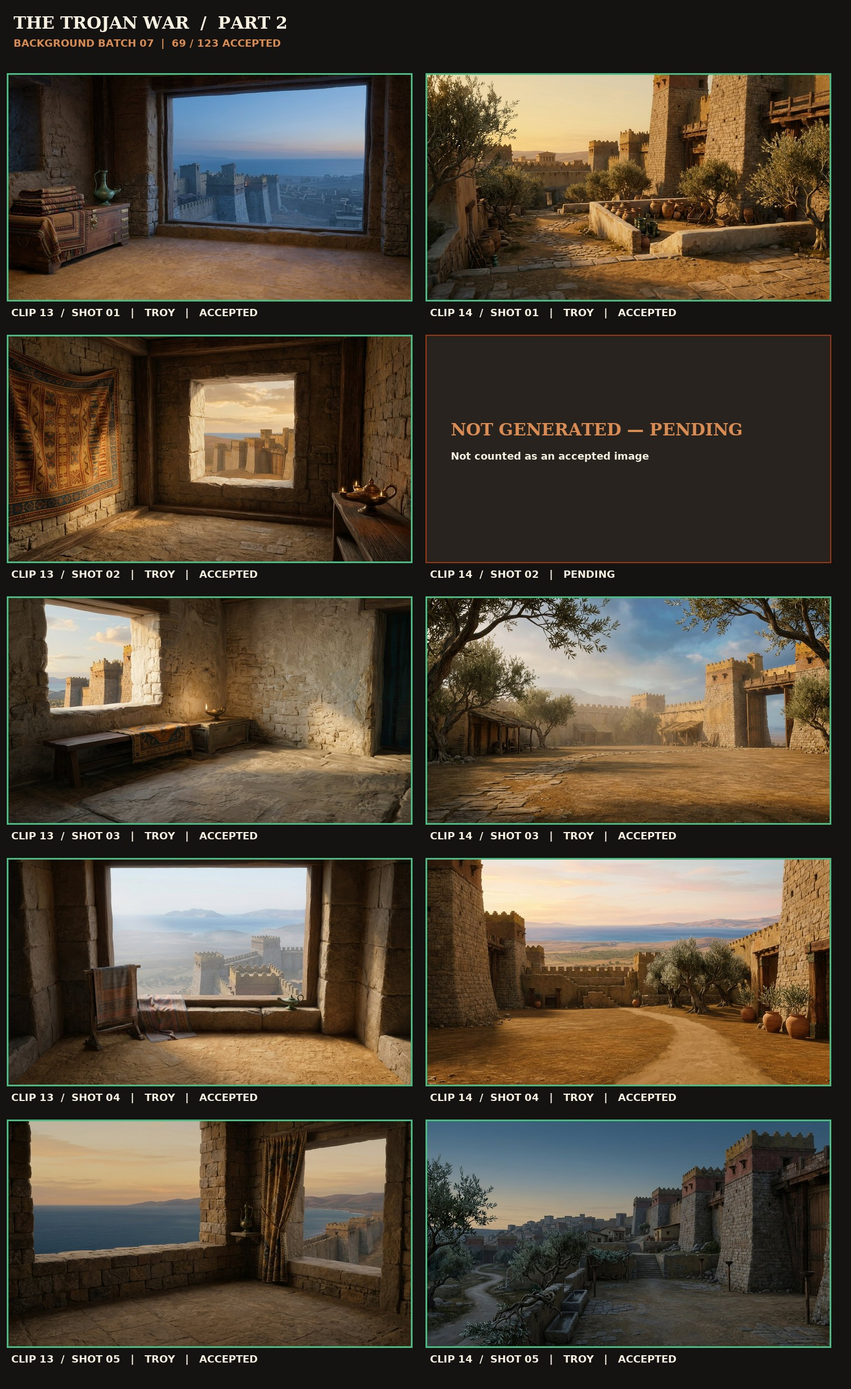
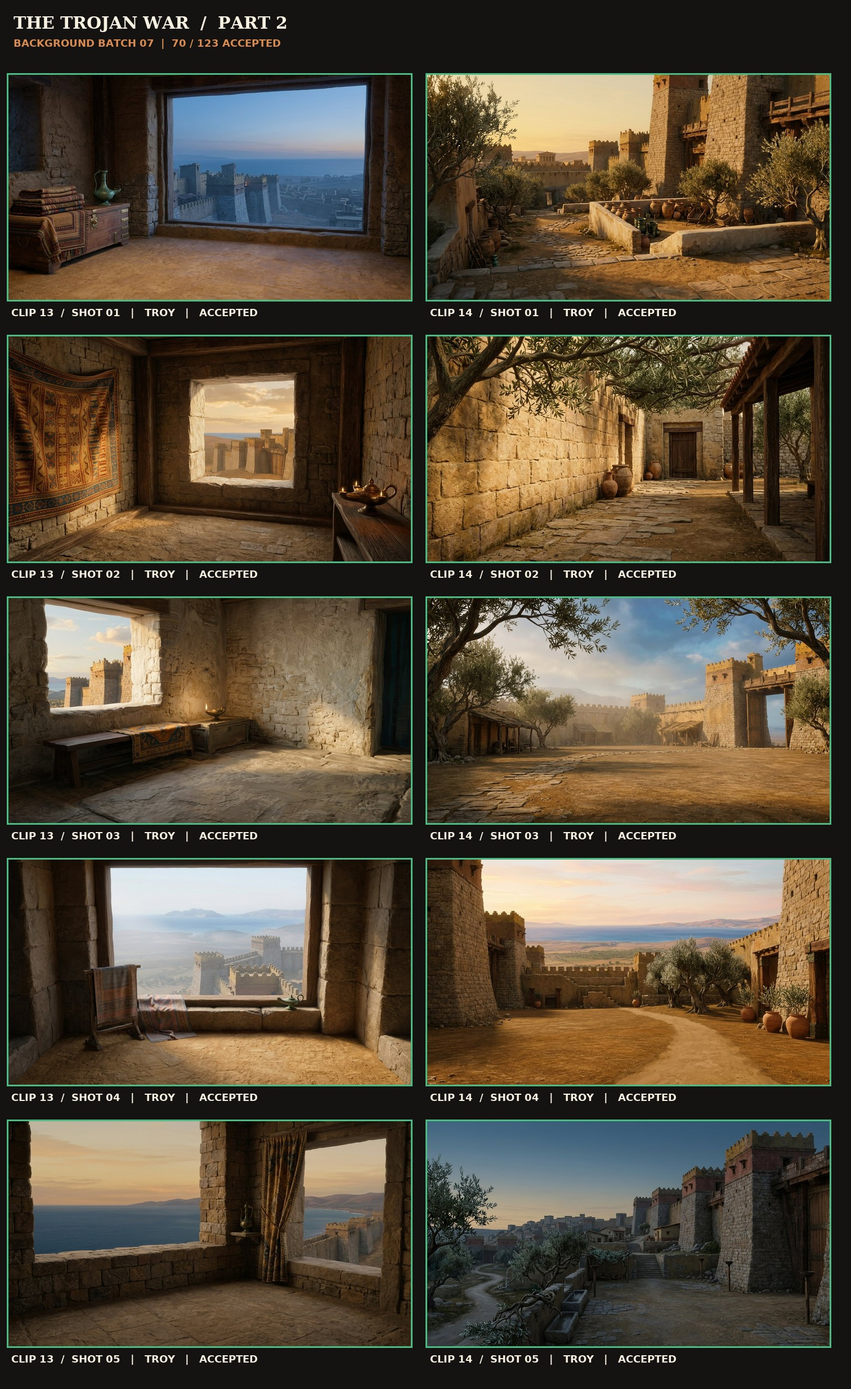
Complete Part 2 background batch 07 reroll

Changed region(s): [[0.4974, 0.2183, 0.9947, 0.4366]]

diff --git a/production/STATUS.md b/production/STATUS.md
@@ -4,7 +4,7 @@
 **Recovered checkpoint:** `origin/arena/01a1032c-yt-2` at `774100f` (2026-10-04); accepted assets and recorded approvals are reused, not regenerated.
 **Locked script source:** `production/script_approved.txt` remains byte-identical to the supplied script; the separate retention draft is not the VO source. By explicit user approval, three non-graphic wording substitutions are permitted for Part 2 Chapter 7 narrator audio only; they are documented in `production/part2/chapter7_vo_override.json` and do not alter the locked source file.
 **Part 1 status:** Complete — 125/125 accepted plates, all 25 clips assembled, rendered, and QC-passed. The full export and QC reports are saved under `production/part1/`; the approved preview is unchanged.
-**Part 2 status:** VO and motion plan complete (24 measured clips / 123 unique plate slots). The five new character sheets were approved by the user with “continue” on 2026-10-05; all five static cutouts and face anchors pass visual QC. Background batches 01–06 are complete; batch 07 has one courtyard-detail reroll pending: 69/123 plates accepted, 54 pending.
+**Part 2 status:** VO and motion plan complete (24 measured clips / 123 unique plate slots). The five new character sheets were approved by the user with “continue” on 2026-10-05; all five static cutouts and face anchors pass visual QC. Background batches 01–07 are complete: 70/123 plates accepted, 53 pending (batch 07 included one corrective reroll).
 ## Current session — 2026-10-05
 - Added a separate complete-Part-1 renderer at `tools/render_part1.py` (all 25 clips, animated 2.5-second opening title and Part II tease). It writes `production/part1/part1_full.mp4` and does not overwrite the approved clip 01 + 05 preview.
 - Added exact per-clip VO sample trimming/padding against the locked timeline, frame-rounding audio tail compensation, a bounded background cache, and a music fade on the teaser card. Approved script text and VO segment records remain untouched.
@@ -14,7 +14,7 @@
 - Locked script, VO segments, accepted assets and approved preview were preserved. Part 1 is delivered; Step 7–8 remains open for Parts 2–4 and the master MP4.
 - Part 2 narrator batch: after exact-text synthesis was blocked, the user approved three non-graphic Chapter 7 narrator-only substitutions; the locked source script remains unchanged. The missing raw narration was generated with selected voice `voice-00`: 222 words, 88.23s decoded, 151 WPM. Raw-audio QC/hash metadata: `production/part2/p2_narr_c7_manifest.json`; override: `production/part2/chapter7_vo_override.json`.
 - Part 2 per-clip VO is complete: 24 clips, 776 words, 364.60s (6.08 min), 127.7 WPM average. All 8 raw batches map to the source lines, the approved VO override is applied, pace gates pass, and audio QC manifests are in `production/part2/part2_vo_manifest.json` and `part2_vo_qc_report.txt`/`.json`.
-- Part 2 motion plan is complete and appended to `production/scenes.json` without changing the approved Part 1 plan. `production/part2/background_manifest.json` records 123 unique plates: 69 accepted and 54 pending. Twenty-three clips use five shots; `p2_clip_16` (23.678s / 50 words) uses eight (~2.96s per shot) for Preset A density. New dialogue/supporting character assignments, timed events, labels/callouts, camera moves, and text-free HYBRID prompts are included. See `production/part2/part2_scene_plan_notes.md`.
+- Part 2 motion plan is complete and appended to `production/scenes.json` without changing the approved Part 1 plan. `production/part2/background_manifest.json` records 123 unique plates: 70 accepted and 53 pending. Twenty-three clips use five shots; `p2_clip_16` (23.678s / 50 words) uses eight (~2.96s per shot) for Preset A density. New dialogue/supporting character assignments, timed events, labels/callouts, camera moves, and text-free HYBRID prompts are included. See `production/part2/part2_scene_plan_notes.md`.
 - Step 3 character-sheet gate cleared: the user approved all five new static designs (“continue”, 2026-10-05): Protesilaus, Philoctetes, Chryses, Patroclus, and Andromache holding Astyanax. Transparent cutouts are saved as `production/assets/rigs/cutout_{protesilaus,philoctetes,chryses,patroclus,andromache_astyanax}.png`; face anchors were appended to `char_anchors.json`, and speaker mappings were added to `tools/assemble.py`. Matte/anchor review: `production/part2/character_sheets/part2_cutout_calibration.jpg`; processor and hashes are recorded in the character-sheet manifest.
 - Background batch 01: 10/10 plates for clips 01–02 individually viewed and accepted (0 rerolls); see `production/part2/backgrounds_batch_01_contact.jpg` and `backgrounds_batch_01_QC.md`.
 - Background batch 02: 10/10 plates for clips 03–04 individually viewed and accepted (0 rerolls); see `production/part2/backgrounds_batch_02_contact.jpg` and `backgrounds_batch_02_QC.md`.
@@ -22,7 +22,7 @@
 - Background batch 04: clips 07–08 complete; 10/10 plates individually viewed and accepted, with no rerolls. At that checkpoint: 40/123 accepted, 83 pending. Contact sheet and QC: `production/part2/backgrounds_batch_04_contact.jpg` and `backgrounds_batch_04_QC.md`.
 - Background batch 05: clips 09–10 complete; all 10 plates individually reviewed and accepted after one corrective reroll. The first Olympus detail candidate (`p2_clip_10` shot 03) was rejected for a modern-looking grate and text-like ornament; its corrected, grate-free prompt produced the accepted replacement. At that checkpoint: 50/123 accepted, 73 pending. Contact sheet and QC: `production/part2/backgrounds_batch_05_contact.jpg` and `backgrounds_batch_05_QC.md`.
 - Background batch 06: clips 11–12 complete; all 10 plates individually reviewed and accepted with no rerolls. Trojan duel field and rampart environments match the approved Troy reference and preserve open character staging. At that checkpoint: 60/123 accepted, 63 pending. Contact sheet and QC: `production/part2/backgrounds_batch_06_contact.jpg` and `backgrounds_batch_06_QC.md`.
-- Background batch 07: clips 13–14 reviewed; 9/10 candidates passed. `p2_clip_14` shot 02 was rejected because a wall-mounted bronze-colored spout above a basin read as a modern faucet/pipe. The candidate was removed; the slot remains pending, with a stone-and-olive prompt excluding plumbing saved in the manifest and scenes plan. Current total: 69/123 accepted, 54 pending. Contact sheet and QC: `production/part2/backgrounds_batch_07_contact.jpg` and `backgrounds_batch_07_QC.md`. Next: reroll clip 14 shot 02, then batch 08, clips 15–16.
+- Background batch 07: clips 13–14 complete; all 10 plates individually reviewed and accepted after one corrective reroll. The first `p2_clip_14` shot 02 candidate was rejected for a faucet-like wall spout; a stone-and-olive replacement passed QC. Current total: 70/123 accepted, 53 pending. Contact sheet and QC: `production/part2/backgrounds_batch_07_contact.jpg` and `backgrounds_batch_07_QC.md`. Next: batch 08, clips 15–16.
 
 **Format:** 16:9 (1920×1080) · **Target Pace:** ~130 wpm · **Parts:** 4 parts (~23.40 min total, 92 clips)
 **Style Mode:** `HYBRID` (2D cartoon rigged characters + AI-generated painterly-realistic Bronze Age environments, no people/text in backgrounds)

diff --git a/production/part2/backgrounds_batch_07_QC.md b/production/part2/backgrounds_batch_07_QC.md
@@ -1,20 +1,20 @@
 # Part 2 Background Batch 07 — QC
 
-**Scope:** clips 13–14 · quiet upper chamber in Troy and the sheltered Trojan courtyard · 9/10 plates individually reviewed and accepted; one courtyard-detail candidate was rejected and remains pending a reroll.
-**Checks:** approved `loc_troy` reference and HYBRID look; varied shot compositions; accepted plates screened for people, faces, silhouettes, readable text, logos, watermarks and modern objects; clear character staging; full image decode and accepted 16:9 tolerance; accepted-image dimensions and SHA-256 recorded in `background_manifest.json`.
-**Result:** PARTIAL PASS — 9 accepted, 1 rejected candidate withheld; no corrective reroll this batch. Part 2 total: 69/123 accepted, 54 pending. The rejected `p2_clip_14` shot 02 candidate contained a bronze-colored wall spout above a basin that read as a modern faucet/pipe. It was removed and is not accepted. A corrected stone-and-olive prompt excluding plumbing is recorded in the manifest and scene plan for the next generation pass. No script, VO or measured scene timing was changed.
+**Scope:** clips 13–14 · quiet upper chamber in Troy and the sheltered Trojan courtyard · all 10 planned plates individually reviewed and accepted, with one corrective reroll for the courtyard detail.
+**Checks:** approved `loc_troy` reference and HYBRID look; varied shot compositions; no people, faces, silhouettes, bodies, readable text, logos, watermarks or modern objects in accepted plates; clear character staging; full image decode and accepted 16:9 tolerance; dimensions and SHA-256 recorded in `background_manifest.json`.
+**Result:** PASS — 10/10 accepted after one corrective reroll. The first `p2_clip_14` shot 02 candidate was rejected because its wall-mounted bronze-colored spout read as a modern faucet/pipe, then excluded. A revised stone-and-olive prompt excluding plumbing produced a period-consistent replacement. Part 2 total: 70/123 accepted, 53 pending. No script, VO or measured scene timing was changed.
 
 | Clip / shot | Setting / view | Dimensions | QC result |
 |---|---|---:|---|
-| `p2_clip_13` / 01 | Upper Troy chamber / wide window view | 1376×768 | PASS — quiet chamber overlooks the walls and sea; folded woven cloth and bronze vessel at edge; clear floor, no figures or text. |
+| `p2_clip_13` / 01 | Upper Troy chamber / wide window view | 1376×768 | PASS — quiet chamber overlooks the walls and sea; folded woven textiles and bronze vessel at edge; clear floor, no figures or text. |
 | `p2_clip_13` / 02 | Upper Troy chamber / raised medium | 1376×768 | PASS — geometric woven hanging and empty window to the gate, with an unmarked bronze lamp; no people or readable lettering. |
 | `p2_clip_13` / 03 | Upper Troy chamber / low side-angle detail | 1376×768 | PASS — simple bench, woven cloth and bronze lamp by the window; clear floor, no figures or text. |
 | `p2_clip_13` / 04 | Upper Troy chamber / reverse wide | 1376×768 | PASS — chamber window frames the city and pale Aegean; plain textile stand and open floor, no people or text. |
 | `p2_clip_13` / 05 | Upper Troy chamber / establishing interior | 1376×768 | PASS — broad room with two open windows, woven curtain and bronze lamp; empty floor and coastal vista, no figures or text. |
 | `p2_clip_14` / 01 | Sheltered courtyard / raised medium | 1376×768 | PASS — olive trees, warm stone walls and plain pottery; readable path and open staging area, no people or text. |
-| `p2_clip_14` / 02 | Sheltered courtyard / low side-angle detail | — | REJECTED — wall-mounted bronze-colored spout above a basin read as a modern faucet/pipe. Candidate removed; slot remains pending for reroll with the revised no-plumbing prompt. |
+| `p2_clip_14` / 02 | Sheltered courtyard / low side-angle detail | 1376×768 | PASS after reroll — quiet flagstone path beneath olive branches, plain amphorae and timber shelter; no plumbing, modern fixtures, people or text. |
 | `p2_clip_14` / 03 | Sheltered courtyard / reverse wide | 1376×768 | PASS — empty courtyard to the Trojan gate, framed by olive branches and simple shelters; no people or text. |
 | `p2_clip_14` / 04 | Sheltered courtyard / panoramic view | 1376×768 | PASS — warm-stone yard and quiet path beneath olive trees, gate and distant landscape beyond; no figures or text. |
 | `p2_clip_14` / 05 | Sheltered courtyard / oblique wide | 1376×768 | PASS — evening path along courtyard walls, olive trees and plain stone basins; no figures, lettering or modern objects. |
 
-Review contact sheet: `production/part2/backgrounds_batch_07_contact.jpg` (rejected slot explicitly shown as pending).
+Review contact sheet: `production/part2/backgrounds_batch_07_contact.jpg`.

diff --git a/production/part2/part2_scene_plan_notes.md b/production/part2/part2_scene_plan_notes.md
@@ -12,4 +12,4 @@
 
 ## Approval / production gate
 
-The user approved all five new static character-sheet designs with “continue” on 2026-10-05; the approval record and labelled 14-character review grid are under `production/part2/character_sheets/`. Step 3 is cleared. Five border-matted transparent cutouts and dialogue face anchors are QC-passed; their sources, hashes and calibration preview are recorded in the character-sheet manifest. Background batches 01–06 are complete; batch 07 has 9/10 plates accepted and one courtyard-detail reroll pending (69/123 accepted, 54 pending). Batch 05 includes one accepted corrective reroll. Batch 01 covers clips 01–02; batch 02 covers clips 03–04; batch 03 covers clips 05–06; batch 04 covers clips 07–08; batch 05 covers clips 09–10; batch 06 covers clips 11–12; batch 07 covers clips 13–14. Their review contact sheets and checklists are `production/part2/backgrounds_batch_01_contact.jpg` / `backgrounds_batch_01_QC.md`, `production/part2/backgrounds_batch_02_contact.jpg` / `backgrounds_batch_02_QC.md`, `production/part2/backgrounds_batch_03_contact.jpg` / `backgrounds_batch_03_QC.md`, `production/part2/backgrounds_batch_04_contact.jpg` / `backgrounds_batch_04_QC.md`, `production/part2/backgrounds_batch_05_contact.jpg` / `backgrounds_batch_05_QC.md`, `production/part2/backgrounds_batch_06_contact.jpg` / `backgrounds_batch_06_QC.md`, and `production/part2/backgrounds_batch_07_contact.jpg` / `backgrounds_batch_07_QC.md`. The initial `p2_clip_10` shot 03 candidate was rejected and excluded; a corrected, grate-free prompt was used for the accepted reroll and is recorded in both `background_manifest.json` and `scenes.json`. The initial `p2_clip_14` shot 02 candidate was rejected and excluded; a stone-and-olive prompt excluding plumbing is recorded in both `background_manifest.json` and `scenes.json` for the next generation pass. Each generated plate still requires individual visual review before it is recorded as accepted.
+The user approved all five new static character-sheet designs with “continue” on 2026-10-05; the approval record and labelled 14-character review grid are under `production/part2/character_sheets/`. Step 3 is cleared. Five border-matted transparent cutouts and dialogue face anchors are QC-passed; their sources, hashes and calibration preview are recorded in the character-sheet manifest. Background batches 01–07 are complete: 70/123 plates accepted, 53 pending; batches 05 and 07 each include one accepted corrective reroll. Batch 01 covers clips 01–02; batch 02 covers clips 03–04; batch 03 covers clips 05–06; batch 04 covers clips 07–08; batch 05 covers clips 09–10; batch 06 covers clips 11–12; batch 07 covers clips 13–14. Their review contact sheets and checklists are `production/part2/backgrounds_batch_01_contact.jpg` / `backgrounds_batch_01_QC.md`, `production/part2/backgrounds_batch_02_contact.jpg` / `backgrounds_batch_02_QC.md`, `production/part2/backgrounds_batch_03_contact.jpg` / `backgrounds_batch_03_QC.md`, `production/part2/backgrounds_batch_04_contact.jpg` / `backgrounds_batch_04_QC.md`, `production/part2/backgrounds_batch_05_contact.jpg` / `backgrounds_batch_05_QC.md`, `production/part2/backgrounds_batch_06_contact.jpg` / `backgrounds_batch_06_QC.md`, and `production/part2/backgrounds_batch_07_contact.jpg` / `backgrounds_batch_07_QC.md`. The initial `p2_clip_10` shot 03 candidate was rejected and excluded; a corrected, grate-free prompt was used for the accepted reroll and is recorded in both `background_manifest.json` and `scenes.json`. The initial `p2_clip_14` shot 02 candidate was rejected and excluded; a corrected stone-and-olive prompt excluding plumbing produced the accepted replacement and is recorded in both `background_manifest.json` and `scenes.json`. Each generated plate still requires individual visual review before it is recorded as accepted.
